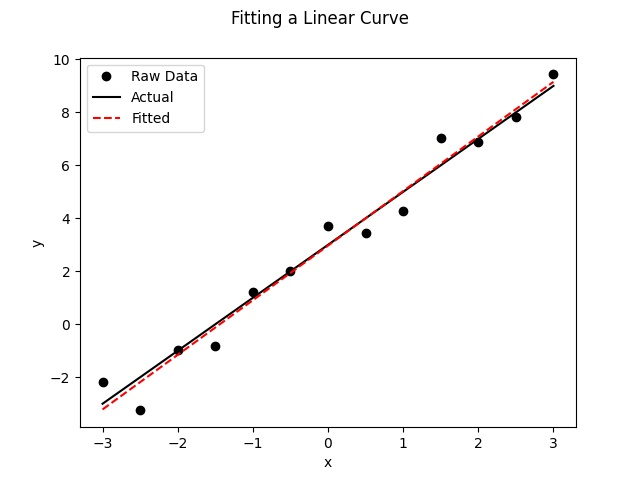
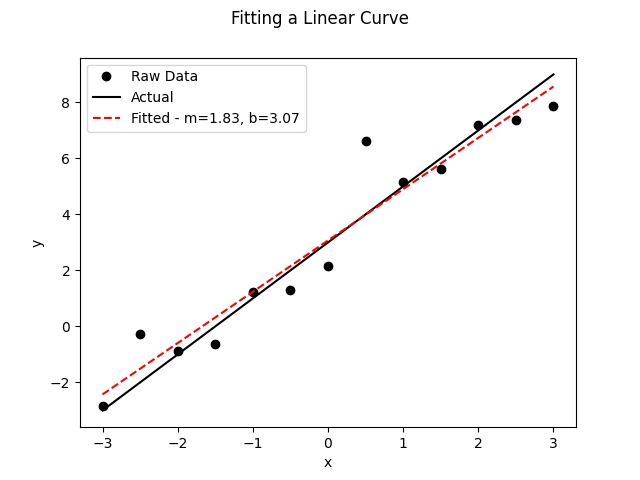
new post: curve fitting on tyrannosaurus growth data

diff --git a/content/blog/2022-08-01-curve-fitting/resources/fit_logistic1.py b/content/blog/2022-08-01-curve-fitting/resources/fit_logistic1.py
@@ -6,36 +6,22 @@ from scipy.optimize import curve_fit
 
 def logistic(x, A, k, x_0, offset) -> float:
     expected = A / (1 + np.exp(-k * (x - x_0))) + offset
-    # print(f"{ x= }, { expected= }")
     return expected
 
 df = pd.read_csv('./tyrannosaurus_growth_table.csv', dtype={'age': np.double, 'mass': np.double})
 print(df)
 
-paper_parameters = [5551, 0.57, 16.1, 5]
-
-popt, pcov = curve_fit(logistic, df.age, df.mass, p0=[5551, 0.57, 16.1, 5], method="trf")
+popt, pcov = curve_fit(logistic, df.age, df.mass )
 A, k, x_0, offset = popt
-print(A, k, x_0, offset)
 
 ages = np.linspace(0, 30, 101)
 masses = logistic(ages, *popt)
 
-my_masses = logistic(df.age, *popt)
-paper_masses = logistic(df.age, *paper_parameters)
-my_error = np.sum((df['mass'] - my_masses) ** 2)
-paper_error = np.sum((df['mass'] - paper_masses) ** 2)
-print(masses)
-print(f"{my_error=}, {paper_error=}")
-print(my_error < paper_error)
-
 fig, ax = plt.subplots()
 fig.suptitle("Tyrannosaurus Rex Growth Curve")
 ax.plot('age', 'mass', 'ko', data=df, label="Data")
-ax.plot(ages, logistic(ages, *paper_parameters), label="From Paper")
 ax.plot(ages, masses, 'k-', data=df, label="Fitted Curve")
 ax.set_xlabel('Age (Years)')
 ax.set_ylabel('Mass (kg)')
 ax.legend()
 fig.savefig("tyrannosaurus_growth_curve.jpg")
-

diff --git a/content/blog/2022-08-01-curve-fitting/resources/fit_logistic3.py b/content/blog/2022-08-01-curve-fitting/resources/fit_logistic3.py
@@ -1,0 +1,31 @@
+import numpy as np
+import pandas as pd
+import matplotlib.pyplot as plt
+
+from scipy.optimize import curve_fit
+
+def logistic(x, A, k, x_0, offset) -> float:
+    expected = A / (1 + np.exp(-k * (x - x_0))) + offset
+    return expected
+
+df = pd.read_csv('./tyrannosaurus_growth_table.csv', dtype={'age': np.double, 'mass': np.double})
+
+paper_values = [5551, 0.57, 16.1, 5]
+
+popt, pcov = curve_fit(logistic, df.age, df.mass, p0=paper_values)
+A, k, x_0, offset = popt
+
+# for plotting the fitted curve
+ages = np.linspace(0, 30, 101)
+masses = logistic(ages, *popt)
+paper_masses = logistic(ages, *paper_values)
+
+fig, ax = plt.subplots()
+fig.suptitle("Tyrannosaurus Rex Growth Curve")
+ax.plot('age', 'mass', 'ko', data=df, label="Data")
+ax.plot(ages, masses, 'k-', label="Fitted Curve")
+ax.plot(ages, paper_masses, 'r--', label="Paper Curve")
+ax.set_xlabel('Age (Years)')
+ax.set_ylabel('Mass (kg)')
+ax.legend()
+fig.savefig("tyrannosaurus_growth_curve_with_paper.jpg")

diff --git a/content/blog/2022-08-01-curve-fitting/resources/fit_logistic2.py b/content/blog/2022-08-01-curve-fitting/resources/fit_logistic2.py
@@ -1,0 +1,29 @@
+import numpy as np
+import pandas as pd
+import matplotlib.pyplot as plt
+
+from scipy.optimize import curve_fit
+
+def logistic(x, A, k, x_0, offset) -> float:
+    expected = A / (1 + np.exp(-k * (x - x_0))) + offset
+    return expected
+
+df = pd.read_csv('./tyrannosaurus_growth_table.csv', dtype={'age': np.double, 'mass': np.double})
+
+paper_values = [5551, 0.57, 16.1, 5]
+
+popt, pcov = curve_fit(logistic, df.age, df.mass, p0=paper_values)
+A, k, x_0, offset = popt
+
+# for plotting the fitted curve
+ages = np.linspace(0, 30, 101)
+masses = logistic(ages, *popt)
+
+fig, ax = plt.subplots()
+fig.suptitle("Tyrannosaurus Rex Growth Curve")
+ax.plot('age', 'mass', 'ko', data=df, label="Data")
+ax.plot(ages, masses, 'k-', label="Fitted Curve")
+ax.set_xlabel('Age (Years)')
+ax.set_ylabel('Mass (kg)')
+ax.legend()
+fig.savefig("tyrannosaurus_growth_curve.jpg")

diff --git a/content/blog/2022-08-01-curve-fitting/resources/fit_linear_curve.py b/content/blog/2022-08-01-curve-fitting/resources/fit_linear_curve.py
@@ -18,6 +18,6 @@ ax.set_xlabel('x')
 ax.set_ylabel('y')
 ax.plot('x', 'y', 'ko', data=df, label="Raw Data")
 ax.plot(df['x'], 2 * df['x'] + 3, 'k-', label="Actual")
-ax.plot(df.x, m * df.x + b, 'r--', label="Fitted")
+ax.plot(df.x, m * df.x + b, 'r--', label=f"Fitted - m={m:.2f}, b={b:.2f}")
 ax.legend()
 fig.savefig('fitted_linear_curve.jpg')

diff --git a/content/blog/2022-08-01-curve-fitting/index.md b/content/blog/2022-08-01-curve-fitting/index.md
@@ -1,19 +1,115 @@
 ---
 title: How Quickly Did Tyrannosaurs Grow? Curve Fitting with SciPy
-date: 2022-07-04
+date: 2022-08-01
 description: How to use SciPy's curve_fit function to optimize function parameters
 ---
 
 ## Introduction
 
+Lately, I've become more interested in paleontology and have started to read more and more scientific papers on the subject. I've also become more initerested in statistics, so to improve at both of these, have begun to try to recreate simple statistical analyses from the papers. In this article, I'm going to (attempt to) recreate the growth curve for _Tyrannosaurus rex_ as found in [(Ericson, et. al. 2004)](https://www.nature.com/articles/nature02699). To do so, I am going to need to fit a logistic curve to the data they collected, using SciPy's `curve_fit` function!
+
 ## An Example - Linear Regression
+
+To begin with, let's start with the simplest application of `curve_fit`: performing a linear regression. Let's generate some fake data to start. The data itself will be of the form $y = 2x + 3 + \epsilon$, with $\epsilon \sim N(0, 1)$.
+
+`embed:./resources/generate_linear_data.r`
+
+The data itself looks as follows:
+
+`embed:./resources/linear_data.csv`
+
+![Initial Fake Linear Data](./resources/linear_data.png)
+
+Now let's fit the data! The general shape of the `curve_fit` function is `curve_fit(f, xdata, ydata)`. Here, `f` is a callable (a function) which takes in an $x$ value as its first parameter and then the actual parameters to be fit as the others: `f(x, *params)`. What `curve_fit` is attempting to do is find the parameters which minimize the least-squares distance between `f(xdata, *params)` and `ydata`. Nominally, we expect `ydata = f(xdata, *params)`.
+
+The return value for `curve_fit` is `[popt, pcov]`, where `popt` are the optimal parameters and `pcov` is the [variance-covariance matrix](https://en.wikipedia.org/wiki/Covariance_matrix) between the different parameters. For now, we will be mostly ignoring `pcov`.
+
+So what does this look like for us? Well, we want to fit a linear function of the form $f(x) = mx + b$, so we will have two parameters: $m$ and $b$. Our function in Python will look like
+
+```python
+def linear_curve(x, m, b):
+	return m * x + b
+```
+
+The entire program to load in the data, find an optimal solution, and plot it are as follows:
+
+`embed:./resources/fit_linear_curve.py`
+
+![Linear Fit](./resources/fitted_linear_curve.jpg)
+
+We can see that we are getting a good agreement between the actual function used to generate the data and what we extracted using curve fitting.
 
 ## Fitting a Logistic Curve
 
+Now that we have an idea of how the function works, let's take a look at what we actually want to do: fit a [ logistic curve ](https://en.wikipedia.org/wiki/Logistic_function) to some _Tyrannosaurus_ growth data! First, let's take a look at the data.
+
+| Age (Years) | Mass (kg) |
+| ----------- | --------- |
+| 28          | 5654      |
+| 22          | 5040      |
+| 18          | 3230      |
+| 16          | 2984      |
+| 14          | 1807      |
+| 15          | 1761      |
+| 2           | 29.9      |
+
+(Data from [Erickson et at 2004](https://www.nature.com/articles/nature02699) Table 1)
+
+For our purposes, let's fit this with a very general logistic curve:
+
+$$
+f(x) = \frac{A}{1 + e^{-k(x-x_0)}} + E
+$$
+
+So now we have four parameters instead of two, but apart from that the process is the same. So, let's load in the data, fit the curve, and plot the results!
+
+`embed:./resources/fit_logistic1.py`
+
+Disaster! If you try running this you get a very nasty looking error:
+
+`embed:./resources/error1.txt`
+
+Although the error is somewhat cryptic (unless perhaps you spend a lot of time with this function), it turns out the issue is that it was not correctly able to fit the curve because the actual parameters are too far away from the initial parameters.
+
+Wait, I hear you say - what initial parameters? We didn't pass any in! It turns out that if you consult [the documentation for `curve_fit`](https://docs.scipy.org/doc/scipy/reference/generated/scipy.optimize.curve_fit.html), it begins the search with all parameters set to the value of 1! In our case, we can cheat a little bit - the actual parameter values found in ([Erickson et. al. 2004](https://www.nature.com/articles/nature02699)) are $A=5551$; $k=0.57$; $x_0=16.1$; and $E=5$, which are all quite different from 1!
+
+So, how do we ask the function to start the curve at these parameter values? We simply have to pass in the `p0=initial_params` keyword argument to the function. So, let's do exactly that:
+
+`embed:./resources/fit_logistic_1_2.diff`
+![Fitted Tyrannosaurus Growth Curve](./resources/tyrannosaurus_growth_curve.jpg)
+
+Again, just by visually inspecting this we can see that this is a very reasonable regression curve for the data!
+
 ## Analysis
+
+This is pretty fantastic - we were very quickly and easily able to fit a curve to the data! Unfortunately, as you may have noticed, the parameters that we found are _not_ those found in the parper. In fact, we can plot the values that they gave against ours to see the difference:
+
+![Tyrannosaurus Growth Curve - Fitted Against Paper Parameters](./resources/tyrannosaurus_growth_curve_with_paper.jpg)
+`embed:./resources/fit_logistic_2_3.diff`
+
+I may be biased, but the curve that we found seems to fit the data better. In fact, we can say empirically that it does - if you find the sum of mean squared errors for our fitted curve against the one from the paper, you find a higher sum of errors for the paper, which means that ours is a better fit to the data.
+
+But why is this the case? The authors of the paper are clearly very intelligent and fitting a logistic curve to data is not exactly a difficult process, even accounting for the fact that 2004 was a great many years ago.
+
+It turns out that I was not the only person who had some trouble replicating the results; [ (Myrhold, 2013) ](https://journals.plos.org/plosone/article?id=10.1371/journal.pone.0081917) also noted that the published regression equations were not the best fit (for the _Tyrannosaurus_). In response, Erickson, et. al. published a [corrigendum](https://www.nature.com/articles/nature16487) explaining their choices, which basically boil down to the fact that the fitted regression models produces values, especially for newly hatched or very old individuals, which are biologically infeasible. For instance, they noted that a regression equation produced masses at hatching (54kg) which is impossible, due to the nature of egg-laying.
+
+And frankly, none of that is terribly important. A (the?) main question which Erickson, et. al. were trying to answer was how tyranosaurs attained thir massive sizes - either by growing faster or growing longer. In all of the analyses, the conclusion was the same - rather than growing for _longer_ in order to attain their mazimum size, they grew _more quickly_.
 
 ## Next Steps
 
+There is obviously lots that we could do to further this analysis! One thing that stood out to me is that there is not a lot of time given to the uncertainty inherent in the measurements. In particular, there is a great deal of uncertainty in the estimates of the body masses, and none of that was reflected in the results. In addition, the selection of parameters to constrain the biological infeasability of the results made it harder to replicate the results. It would have been interesting to redo the analysis using a Bayesian framework, where the assumptions (e.g. 5kg at hatching) could have been encoded as strong priors on the parameters rather than fixing them in the analysis. In fact, that approach would also lend itself to an analysis incorporating the uncertainty in the masses!
+
+Perhaps that will be something fun to do later...
+
 ## Conclusion
 
+SciPy's `curve_fit` function allows you to fit an (almost) arbitrary regression function to observed data by generating optimal values for the function parameters. We used this first to perform a simple linear regression, and then to fit a logistic growth curve for _Tyrannosaurus rex_.
+
 ## Sources and Bibliography
+
+-   [ Erickson, G. M., Makovicky, P. J., Currie, P. J., Norell, M. A., Yerby, S. A., & Brochu, C. A. (2004). Gigantism and comparative life-history parameters of tyrannosaurid dinosaurs. Nature, 430(7001), 772–775. https://doi.org/10.1038/nature02699](https://www.nature.com/articles/nature02699)
+-   [Erickson, G. M., Makovicky, P. J., Currie, P. J., Norell, M. A., Yerby, S. A., & Brochu, C. A. (2016). Correction: Corrigendum: Gigantism and comparative life-history parameters of tyrannosaurid dinosaurs. Nature, 531(7595), 538–538. https://doi.org/10.1038/nature16487](https://www.nature.com/articles/nature16487)
+-   [Myhrvold, N. P. (2013). Revisiting the Estimation of Dinosaur Growth Rates. PLOS ONE, 8(12), e81917. https://doi.org/10.1371/journal.pone.0081917](https://journals.plos.org/plosone/article?id=10.1371/journal.pone.0081917)
+-   [SciPy - Documentation for `curve_fit`](https://docs.scipy.org/doc/scipy/reference/generated/scipy.optimize.curve_fit.html)
+-   [Wikipedia - Covariance Matrix](https://en.wikipedia.org/wiki/Covariance_matrix)
+-   [Wikipedia - Logistic Curve](https://en.wikipedia.org/wiki/Logistic_function)
